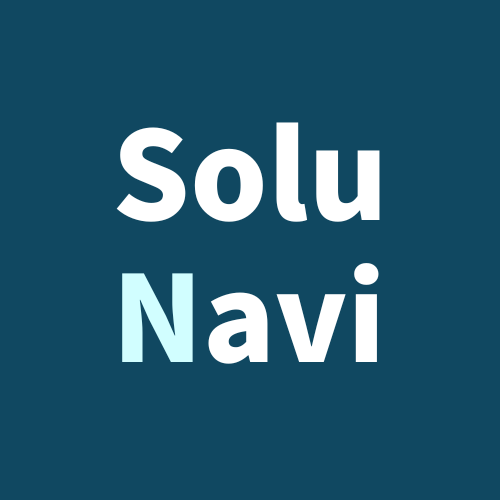
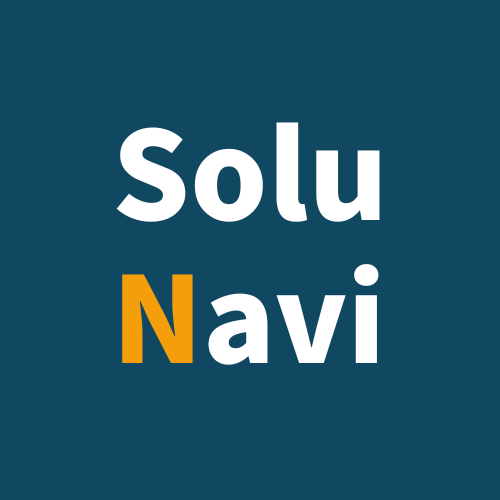
ロゴ変更

diff --git a/public/sw.js b/public/sw.js
@@ -1,5 +1,5 @@
 // Solu Navi Service Worker
-const CACHE_NAME = "solu-navi-cache-v2";
+const CACHE_NAME = "solu-navi-cache-v3";
 
 // プリキャッシュ対象の静的アセット
 const PRECACHE_ASSETS = [
